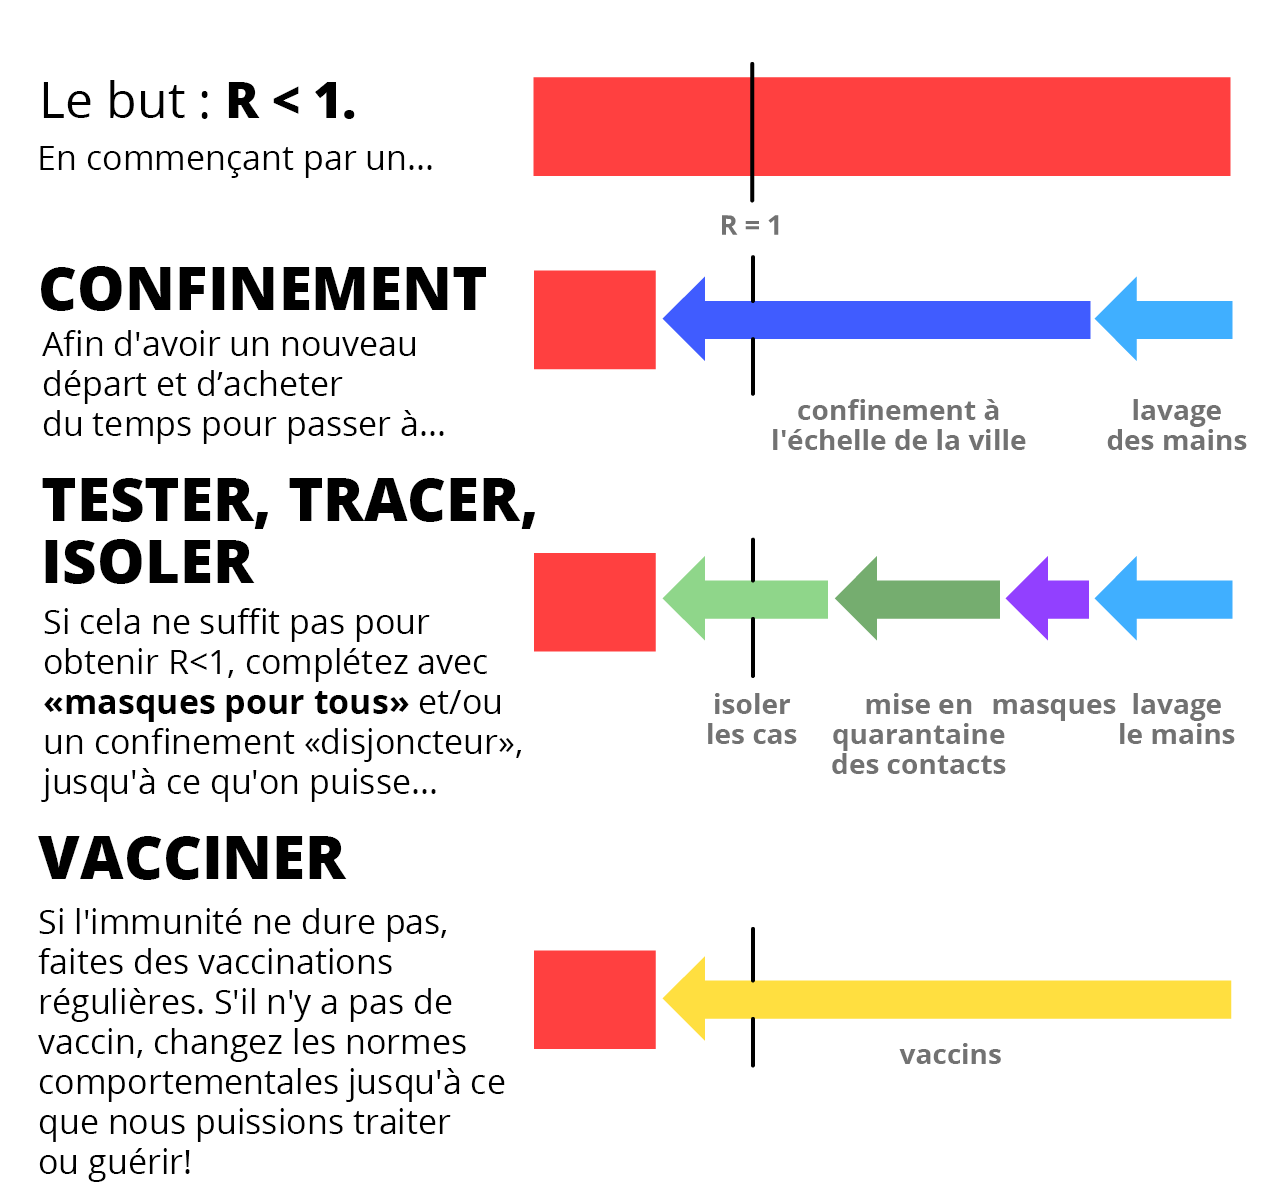
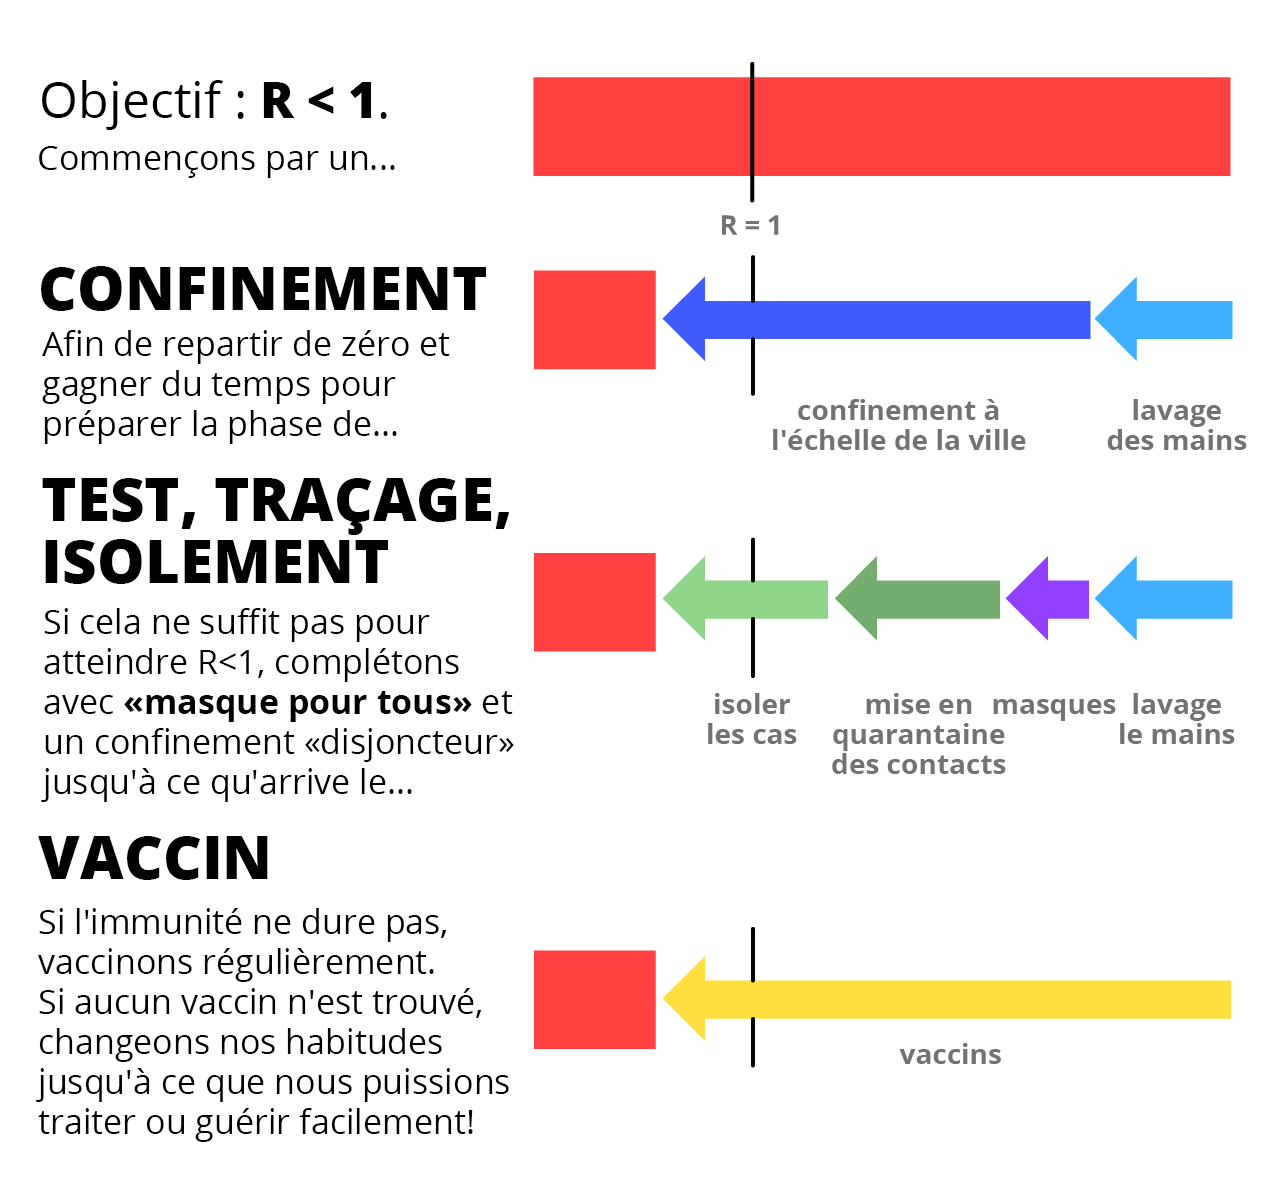
plan.png

diff --git a/pics/PICS_TRANSLATION.md b/pics/PICS_TRANSLATION.md
@@ -9,10 +9,10 @@
 | [graphs_q.png](https://raw.githubusercontent.com/ncase/covid-19/master/pics/graphs_q.png) | — | — | — |  |
 | [masks.png](https://raw.githubusercontent.com/ncase/covid-19/master/pics/masks.png) | @sylvainberube |  | @sylvainberube |   |
 | [mitigation_vs_suppression.png](https://raw.githubusercontent.com/ncase/covid-19/master/pics/mitigation_vs_suppression.png)  | @sylvainberube |  | @sylvainberube |   |
-| [plan.png](https://raw.githubusercontent.com/ncase/covid-19/master/pics/plan.png)  |  |  |  |   |
+| [plan.png](https://raw.githubusercontent.com/ncase/covid-19/master/pics/plan.png)  | @sylvainberube |  | @sylvainberube |   |
 | [r.png](https://raw.githubusercontent.com/ncase/covid-19/master/pics/r.png)  | — | — | — |  |
 | [r2.png](https://raw.githubusercontent.com/ncase/covid-19/master/pics/r2.png)  | @sylvainberube |  | @sylvainberube |    |
-| [r3.png](https://raw.githubusercontent.com/ncase/covid-19/master/pics/r3.png)  | @sylvainberube |  |    |    |
+| [r3.png](https://raw.githubusercontent.com/ncase/covid-19/master/pics/r3.png)  | @sylvainberube |  | @sylvainberube |    |
 | [r4.png](https://raw.githubusercontent.com/ncase/covid-19/master/pics/r4.png) | @sylvainberube |  | @sylvainberube |    |
 | [seir.png](https://raw.githubusercontent.com/ncase/covid-19/master/pics/seir.png) | @sylvainberube |  | @sylvainberube |    |
 | [seirs.png](https://raw.githubusercontent.com/ncase/covid-19/master/pics/seirs.png) | @sylvainberube |  | @sylvainberube |    |
@@ -20,7 +20,7 @@
 | [spread.png](https://raw.githubusercontent.com/ncase/covid-19/master/pics/spread.png) | @sylvainberube |  | @sylvainberube |    |
 | [susceptibles.png](https://raw.githubusercontent.com/ncase/covid-19/master/pics/susceptibles.png) | @sylvainberube |  | @sylvainberube |    |
 | [timeline1.png](https://raw.githubusercontent.com/ncase/covid-19/master/pics/timeline1.png) | @sylvainberube |  | @sylvainberube |    |
-| [timeline2.png](https://raw.githubusercontent.com/ncase/covid-19/master/pics/timeline2.png) | @sylvainberube |  |    | @sylvainberube |
+| [timeline2.png](https://raw.githubusercontent.com/ncase/covid-19/master/pics/timeline2.png) | @sylvainberube |  | @sylvainberube |  |
 | [timeline3.png](https://raw.githubusercontent.com/ncase/covid-19/master/pics/timeline3.png) | @sylvainberube |  | @sylvainberube |    |
 
 ##  Polices
@@ -99,7 +99,27 @@ vaccines
 
 #### Traduction (français) 
 
-?
+Objectif : R<1.
+Commençons par un...
+
+Confinement
+Afin de repartir de zéro et gagner du temps pour préparer la phase de...
+
+Test, suivi, isolement
+Si cela ne suffit pas pour atteindre R<1, complétons avec "masque pour tous" et un confinement «disjoncteur» jusqu'à ce qu'arrive le...
+
+Vaccin
+Si l'immunité ne dure pas, vaccinons régulièrement. Si aucun vaccin n'est trouvé, changeons nos habitudes jusqu'à ce que nous puissions traiter ou guérir facilement!
+
+confinement à l'échelle de la ville
+lavage des mains
+
+isoler les cas
+mise en quarantaine des contacts
+masques
+lavage des mains
+
+vaccins
 
 ### r2.png
 #### Original (anglais) 
